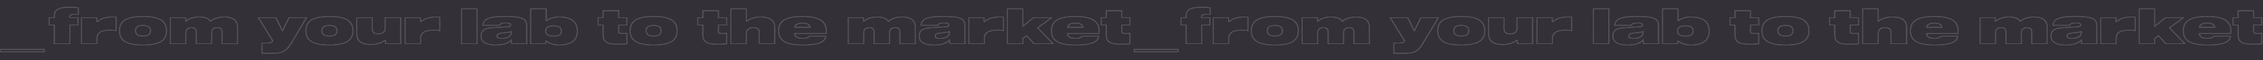
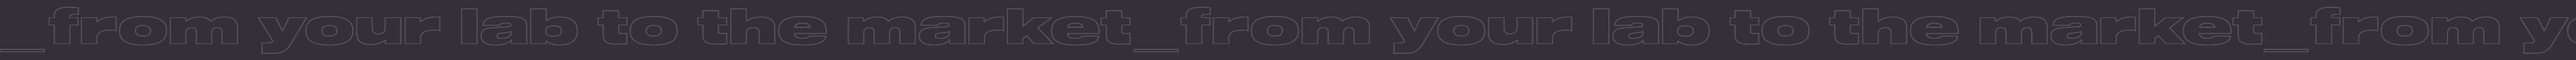
33

diff --git a/team.html b/team.html
@@ -53,16 +53,16 @@
             <div class="col-md-8  team-column" style="padding-left: 6rem; padding-right: 3rem; " >
 			<div class="row">
 				<div class="col-md-3 no-gutter no-gutters container1">
-					<img src="img/team/member1.jpg" onmouseover="hover('Alvaro Veliz Osorio, Ph.D.','I lead a multidisciplinary team of scientists, policy experts and humanists helping innovators in their journey from the lab to the market. We work with deep tech SMEs making their ideas shine through and sharpen their communication with funding agencies and investors. Parallel to my consultancy work, I support the advance-ment of science in developing countries. During more than a decade of scientific research and teaching, I have connected scientists from leading institutions in Europe with promising talent from Africa and Central America.')" onmouseout="setText()" alt="no logo">
+					<img class="team-img" src="img/team/member1.jpg" onmouseover="hover(this, 'Alvaro Veliz Osorio, Ph.D.','I lead a multidisciplinary team of scientists, policy experts and humanists helping innovators in their journey from the lab to the market. We work with deep tech SMEs making their ideas shine through and sharpen their communication with funding agencies and investors. Parallel to my consultancy work, I support the advance-ment of science in developing countries. During more than a decade of scientific research and teaching, I have connected scientists from leading institutions in Europe with promising talent from Africa and Central America.')" onmouseout="setText(this)" alt="no logo">
 				</div>
 				<div class="col-md-3 no-gutter container1">
-					<img src="img/team/member1.jpg" onmouseover="hover('Aleksandra Swatek, Ph.D.','My responsibility lies in supporting the craft of writing, document design, unified, effective communication strategy for the clients. I have xtensive experience working with STEM academics on their presentations towards the ge-neral public and academic audiences. I haveworked on drafting grant proposals and related materials to help innovative SMEs bring their products closer to the market. As a researcher in writing studies I approach communication with a data-driven bend: good writing is not only a result of talent but most often practice and reflection on what has been proven to work best.')" onmouseout="setText()" alt="no logo">
+					<img class="team-img" src="img/team/member1.jpg" onmouseover="hover(this, 'Aleksandra Swatek, Ph.D.','My responsibility lies in supporting the craft of writing, document design, unified, effective communication strategy for the clients. I have xtensive experience working with STEM academics on their presentations towards the ge-neral public and academic audiences. I haveworked on drafting grant proposals and related materials to help innovative SMEs bring their products closer to the market. As a researcher in writing studies I approach communication with a data-driven bend: good writing is not only a result of talent but most often practice and reflection on what has been proven to work best.')" onmouseout="setText(this)" alt="no logo">
 				</div>
 				<div class="col-md-3 no-gutter container1">
-					<img src="img/team/member1.jpg" onmouseover="hover('Tomasz Labuk, Ph.D.','I am a writer and consultant with a mixed background in academia (classics) and corporate business in IoT, storage, and cloud solutions. While I hold a Ph.D. degree in Byzantine literature, in my daily work I aim to combine my education in classical Greek rhetoric to give a cliear and strong voice to intricate deep tech innovations. I firmly believe that a written word is a “mighty lord” and that even the most complex ideas can capture the undivided attention of the audience once laid down with clarity, conciseness, and carefully carved wording.')" onmouseout="setText()" alt="no logo">
+					<img class="team-img" src="img/team/member1.jpg" onmouseover="hover(this, 'Tomasz Labuk, Ph.D.','I am a writer and consultant with a mixed background in academia (classics) and corporate business in IoT, storage, and cloud solutions. While I hold a Ph.D. degree in Byzantine literature, in my daily work I aim to combine my education in classical Greek rhetoric to give a cliear and strong voice to intricate deep tech innovations. I firmly believe that a written word is a “mighty lord” and that even the most complex ideas can capture the undivided attention of the audience once laid down with clarity, conciseness, and carefully carved wording.')" onmouseout="setText(this)" alt="no logo">
 				</div>
 				<div class="col-md-3 no-gutter container1">
-					<img src="img/team/member1.jpg" onmouseover="hover('Adela Staszowska, Ph.D.','	I am an R&D consultant with a PhD in Biophysics advising life-science start-ups on innovations and fundraising. I rely on more than 5 years of research experience that combined lab work and developing Machine Learning tools for biological applications. As an experienced academic, I took on leading roles in public engagements, conference presentations, and scientific publications. I also leverage my skills in scientific communication and document design for effective business writing. I have a keen interest in the history of medicine, microscopy, and beekeeping.')" onmouseout="setText()" alt="no logo">
+					<img class="team-img" src="img/team/member1.jpg" onmouseover="hover(this, 'Adela Staszowska, Ph.D.','	I am an R&D consultant with a PhD in Biophysics advising life-science start-ups on innovations and fundraising. I rely on more than 5 years of research experience that combined lab work and developing Machine Learning tools for biological applications. As an experienced academic, I took on leading roles in public engagements, conference presentations, and scientific publications. I also leverage my skills in scientific communication and document design for effective business writing. I have a keen interest in the history of medicine, microscopy, and beekeeping.')" onmouseout="setText(this)" alt="no logo">
 				</div>
 			</div>
 		</div>
@@ -73,8 +73,8 @@
 			</div>
 			
 			
-			<div class="tech-slideshow col-md-12">
-				<div class="mover-1"></div>
+			<div class="tech-slideshow-team col-md-12">
+				<div class="mover-2"></div>
 				<!--<div class="mover-2"></div>-->
 			  </div>
 		<!-- End Image Carousel -->
@@ -113,16 +113,19 @@
 	<!-- Font Awesome -->
 	<script src="js/all.min.js"></script>
 	<script>
-	 function hover(name, description) {
+	 function hover(element, name, description) {
+		
 		console.log(description);
 		console.log(name);
 		document.getElementById('content1').innerHTML = name;
 		document.getElementById('content2').innerHTML = description;
+		element.style.opacity = "1";
 	 }
 	
-	function setText() {
+	function setText(element) {
 		document.getElementById('content1').innerHTML = "Our People are our greatest strenght";
 		document.getElementById('content2').innerHTML = "Our team comprises of dedicated profes-sionals who hold PhD degrees In STEM (quantum physics, bioinformatics) and hu-manities (linguistics and classics). What brings us together is our unencumbered passion for translating complex technolo- gies into captivating stories. Combining our varied academic and professional expertise, we bring intricate ideas to wider audiences by carefully crafting words and shaping your R&D efforts in a compelling narrative.";
+		element.style.opacity=".2";
 	}
 	</script>
 		

diff --git a/css/style.css b/css/style.css
@@ -276,6 +276,7 @@ p.lead
 {
   margin-top: 8rem;
 }
+
 .services-column
 {
   margin-top: 8%;
@@ -285,7 +286,12 @@ p.lead
 {
   padding-left: 2rem; 
   padding-right: 1rem;
-  margin-top:8%;
+  margin-top:6%;
+}
+
+.team-img
+{
+  opacity:.2!important;
 }
 
 /*============= Free Resources=============*/
@@ -321,7 +327,7 @@ margin-right: 2rem;
 
 .tech-slideshow > div {
   height: 200px;
-  width: 3363px;
+  width: 3828px;
   background: url('../img/slider.jpg');
   position: absolute;
   top: 0;
@@ -332,19 +338,43 @@ margin-right: 2rem;
 .tech-slideshow .mover-1 {
   animation: moveSlideshow 30s linear infinite;
 }
-.tech-slideshow .mover-2 {
-  opacity: 0;
-  transition: opacity 0.5s ease-out;
-  background-position: 0 -200px;
-  animation: moveSlideshow 8  s linear infinite;
+
+.tech-slideshow-team {
+  height: 100px;
+  width: auto;
+  margin: 0 auto;
+  position: relative;
+  overflow: hidden;
+  transform: translate3d(0, 0, 0);
+  margin-top: 4%;
+  margin-left: 3rem;
+  margin-right: 3rem;
 }
-/*.tech-slideshow:hover .mover-2 {
-  opacity: 1;
-}*/
+
+.tech-slideshow-team > div {
+  height: 200px;
+  width: 3618px;
+  background: url('../img/team/text_slider.jpg');
+  position: absolute;
+  top: 0;
+  left: 0;
+  height: 100%;
+  transform: translate3d(0, 0, 0);
+}
+.tech-slideshow-team .mover-2 {
+  animation: moveSlideshowTeam 30s linear infinite;
+}
+
 
 @keyframes moveSlideshow {
   100% { 
-    transform: translateX(-1686px);  
+    transform: translateX(-1684px);  
+  }
+}
+
+@keyframes moveSlideshowTeam {
+  100% { 
+    transform: translateX(-1783px);  
   }
 }
 

diff --git a/free_resoruces.html b/free_resoruces.html
@@ -50,7 +50,7 @@
         <div class="container-fluid p-5" style="background-image: url('img/free_resources_bg.jpg'); background-repeat: no-repeat; background-position: center; background-size: cover; height: 100%; overflow: hidden;">
             <div class="row services-section">
                     <div class="col-md-6 my-3">
-                        <div class="col-md-12 button-resources bg-yellow">
+                        <div class="col-md-12 button-resources bg-yellow" style="background-image: url('img/Resources/podcast.jpg'); background-repeat: no-repeat; background-position: center; background-size: cover; width: 100%; overflow: hidden;">
                             <p class="text-center font-super h1">PODCAST</p>
                         </div>
                     </div>

diff --git a/services.html b/services.html
@@ -110,7 +110,7 @@
 						<img src="img/lab_background.jpg" class="w-100 carousel-img-lab" alt="">
 						<div class="row w-100">
 							<div class="col-md-12 text-center carousel-caption-lab">
-								<p>from your lab to the market_</p>
+								<p>technology storytelling experts_</p>
 							</div>
 						</div>
 					</div>
